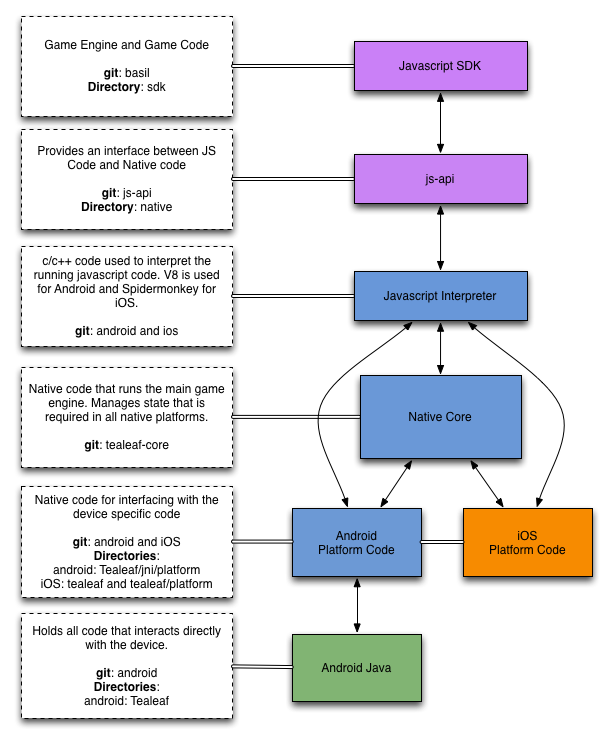
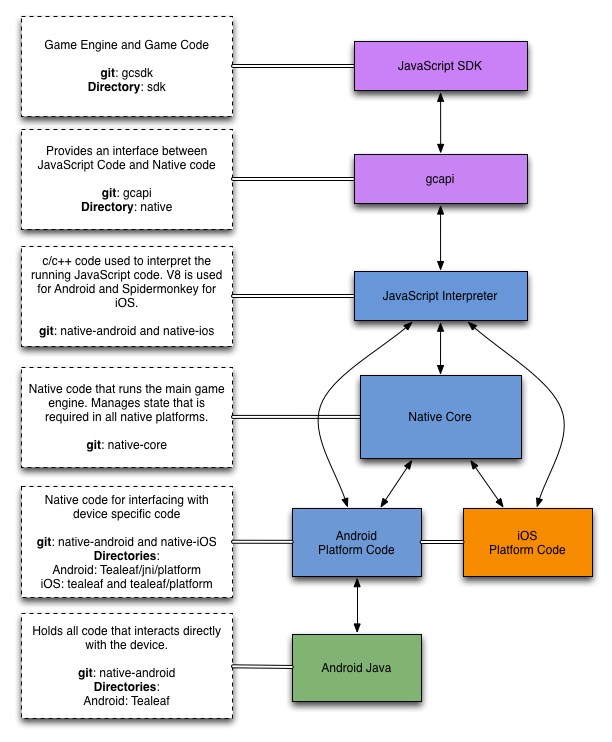
corrections to the native stack diagram to reflect the proper repo names

diff --git a/native/native-stack.md b/native/native-stack.md
@@ -88,7 +88,7 @@ games running smoothly.
 * **git**: [native-android](https://github.com/gameclosure/native-android), [native-ios](https://github.com/gameclosure/native-ios)  
 * **language**: C++, Objective C++
 * **directories:**
-	- **android:Tealeaf/jni/platform**: Directory containing code to interface between Android Java code, native code, and native core.
+	- **android: Tealeaf/jni/platform**: Directory containing code to interface between Android Java code, native code, and native core.
 	- **iOS: tealeaf/platform**: Directory containing code to interface between Objective-C code and native core.
 
 Code to bridge the native core and the js-api with device
@@ -112,7 +112,7 @@ because of the need to communicate between various
 programming languages and because they allow code reuse
 between different platforms.
 
-### Game CLosure SDK to/from GC API
+### Game Closure SDK to/from GC API
 
 Moving from the Game Closure SDK requires calling JavaScript
 functions that live within the native folder of
@@ -155,26 +155,26 @@ sound loading. This example shows how a sound is loaded if
 the user tries to play an unloaded sound from JavaScript
 when running on a native Android device.
 
-1. **[timestep/src/AudioManager.js](https://github.com/gameclosure/timestep/blob/develop/src/AudioManager.js)**:
+1. **[timestep/src/AudioManager.js](https://github.com/gameclosure/timestep/blob/master/src/AudioManager.js)**:
 First a call is made in JavaScript to `audiomanager.play`
 which tries to play the required sound and we assume for
 this example it has not yet been loaded. Since we are
 running on a native device this means a call is made to
 `HTML5API.js` to start the loading process.
 
-2. **[timestep/src/ui/backend/sound/HTML5API.js](https://github.com/gameclosure/timestep/blob/develop/src/ui/backend/sound/HTML5API.js)**:
+2. **[timestep/src/ui/backend/sound/HTML5API.js](https://github.com/gameclosure/timestep/blob/master/src/ui/backend/sound/HTML5API.js)**:
 This file represents an API for playing named sounds. In our
 example it will use the `Audio.js` class in native to try
 and play the sound.
 
-3. **[gcapi/src/native/Audio.js](https://github.com/gameclosure/gcapi/tree/develop/src/native/Audio.js)**:
+3. **[gcapi/src/native/Audio.js](https://github.com/gameclosure/gcapi/tree/master/src/native/Audio.js)**:
 Since the sound that is trying to be played has not yet been
 loaded it will be loaded by making a call to
 `Native.sound.loundSound`. This is a function that is
 created from native code and acts a bridge between
 JavaScript and C.
 
-4. **[native-android/TeaLeaf/jni/js/js_sound.cpp](https://github.com/gameclosure/native-android/tree/develop/TeaLeaf/jni/js/js_sound.cpp)**:
+4. **[native-android/TeaLeaf/jni/js/js_sound.cpp](https://github.com/gameclosure/native-android/tree/master/TeaLeaf/jni/js/js_sound.cpp)**:
 This file contains the function `defLoadSound` which is ran
 when `Native.sound.loundSound` is called from
 JavaScript. This function hands the load request to
@@ -182,16 +182,16 @@ JavaScript. This function hands the load request to
 `sound_manager_load_sound` so that sound can be handled
 differently on iOS and Android.
 
-5. **[native-android/TeaLeaf/jni/platform/sound_manager.cpp](https://github.com/gameclosure/native-android/tree/develop/TeaLeaf/jni/platform/sound_manager.cpp)**:
+5. **[native-android/TeaLeaf/jni/platform/sound_manager.cpp](https://github.com/gameclosure/native-android/tree/master/TeaLeaf/jni/platform/sound_manager.cpp)**:
 Within this file a JNI call into java is made to `loadSound`
 in `NativeShim.java`.
 
-6. **[NativeShim.java](https://github.com/gameclosure/native-android/tree/develop/TeaLeaf/src/com/tealeaf/NativeShim.java)**:
+6. **[NativeShim.java](https://github.com/gameclosure/native-android/tree/master/TeaLeaf/src/com/tealeaf/NativeShim.java)**:
 Within this file the sound being requested to load is placed
 on the sound queue by calling `SoundQueue.loadSound` which
 is processed in `SoundQueue.java`.
 
-7. **[SoundQueue.java](https://github.com/gameclosure/native-android/tree/develop/TeaLeaf/src/com/tealeaf/SoundQueue.java)**:
+7. **[SoundQueue.java](https://github.com/gameclosure/native-android/tree/master/TeaLeaf/src/com/tealeaf/SoundQueue.java)**:
 Within this file the `run` function is ran on its own thread
 and it continually looks for events on the sound queue to
 process and will begin processing the newly added load
@@ -199,7 +199,7 @@ event. The sound will be given to an instance of
 `SoundManager` to be loaded by calling
 `soundManager.loadSound`.
 
-8. **[SoundManager.java](https://github.com/gameclosure/native-android/tree/develop/TeaLeaf/src/com/tealeaf/SoundManager.java)**:
+8. **[SoundManager.java](https://github.com/gameclosure/native-android/tree/master/TeaLeaf/src/com/tealeaf/SoundManager.java)**:
 This is the file where sounds are actually loaded from the
 app or url. Within this file another `run` function exists
 and is also ran on its own thread. The function runs
@@ -207,49 +207,49 @@ continuously and checks for new sounds to load. Once the
 sound is loaded it adds a sound loaded event to
 `EventQueue`.
 
-9. **[EventQueue.java](https://github.com/gameclosure/native-android/tree/develop/TeaLeaf/src/com/tealeaf/EventQueue.java)**:
+9. **[EventQueue.java](https://github.com/gameclosure/native-android/tree/master/TeaLeaf/src/com/tealeaf/EventQueue.java)**:
 EventQueue holds a list of events that are to be sent to
 JavaScript. These events are added to the queue by calling
 `pushEvent` and are dispatched from the GLThread in Android
 in `TeaLeafGLSurfaceView.java`.
 
-10. **[TeaLeafGLSurfaceView.java](https://github.com/gameclosure/native-android/tree/develop/TeaLeaf/src/com/tealeaf/TeaLeafGLSurfaceView.java)**:
+10. **[TeaLeafGLSurfaceView.java](https://github.com/gameclosure/native-android/tree/master/TeaLeaf/src/com/tealeaf/TeaLeafGLSurfaceView.java)**:
 This file contains code that needs to be run on the main GL
 thread. In our case, all of the JavaScript engine code is
 also run on this thread. Before every frame is drawn the
 `dispatchEvents` function is called on `EventQueue` to send
 all events to native code through `NativeShim`.
 
-11. **[NativeShim.java](https://github.com/gameclosure/native-android/tree/develop/TeaLeaf/src/com/tealeaf/NativeShim.java)**:
+11. **[NativeShim.java](https://github.com/gameclosure/native-android/tree/master/TeaLeaf/src/com/tealeaf/NativeShim.java)**:
 `dispatchEvents` is declared in NativeShim.java and is
 called to dispatch the events to native code. The function
 is marked as native and is defined within the file
 `native_shim.cpp`.
 
-12. **[native-android/TeaLeaf/jni/platform/native_shim.cpp](https://github.com/gameclosure/native-android/tree/develop/TeaLeaf/jni/platform/native_shim.cpp)**:
+12. **[native-android/TeaLeaf/jni/platform/native_shim.cpp](https://github.com/gameclosure/native-android/tree/master/TeaLeaf/jni/platform/native_shim.cpp)**:
 The `dispatchEvents` function from `NativeShim.java` is
 declared as `Java_com_tealeaf_NativeShim_dispatchEvents`
 within the native_shim. This c function is used to pass each
 event on the list to native core by calling
 `core_dispatch_event`.
 
-13. **[native-core/events.c](https://github.com/gameclosure/native-core/blob/develop/events.c)**:
+13. **[native-core/events.c](https://github.com/gameclosure/native-core/blob/master/events.c)**:
 The `core_dispatch_event` function defined in `events.c`
 takes each event and makes a call to `js_dispatch_event`
 which dispatches the event to JavaScript.
 
-14. **[native-android/TeaLeaf/jni/js/js_events.cpp](https://github.com/gameclosure/native-android/tree/develop/TeaLeaf/jni/js/js_events.cpp)**:
+14. **[native-android/TeaLeaf/jni/js/js_events.cpp](https://github.com/gameclosure/native-android/tree/master/TeaLeaf/jni/js/js_events.cpp)**:
 The `js_dispatch_event` function defined in this file makes
 calls using the V8 JavaScript Interpreter in order to get
 the events back to JavaScript. The events are dispatched
 using the `NATIVE.events.dispatchEvent` which lives on the
 `NATIVE` object in JavaScript.
 
-15. **[gcapi/src/native/events.js](https://github.com/gameclosure/gcapi/tree/develop/src/native/events.js)**:
+15. **[gcapi/src/native/events.js](https://github.com/gameclosure/gcapi/tree/master/src/native/events.js)**:
 The call from native code ends up in the `events.js` file
 which eventually sends the event to `soundLoading.js`.
 
-16. **[gcapi/src/native/soundLoading.js](https://github.com/gameclosure/gcapi/tree/develop/src/native/soundLoading.js)**:
+16. **[gcapi/src/native/soundLoading.js](https://github.com/gameclosure/gcapi/tree/master/src/native/soundLoading.js)**:
 Finally, the event makes it to the listener that was
 registered from with `soundLoading.js`. This function takes
 the sound event and calls the `onLoad` handler associated with
